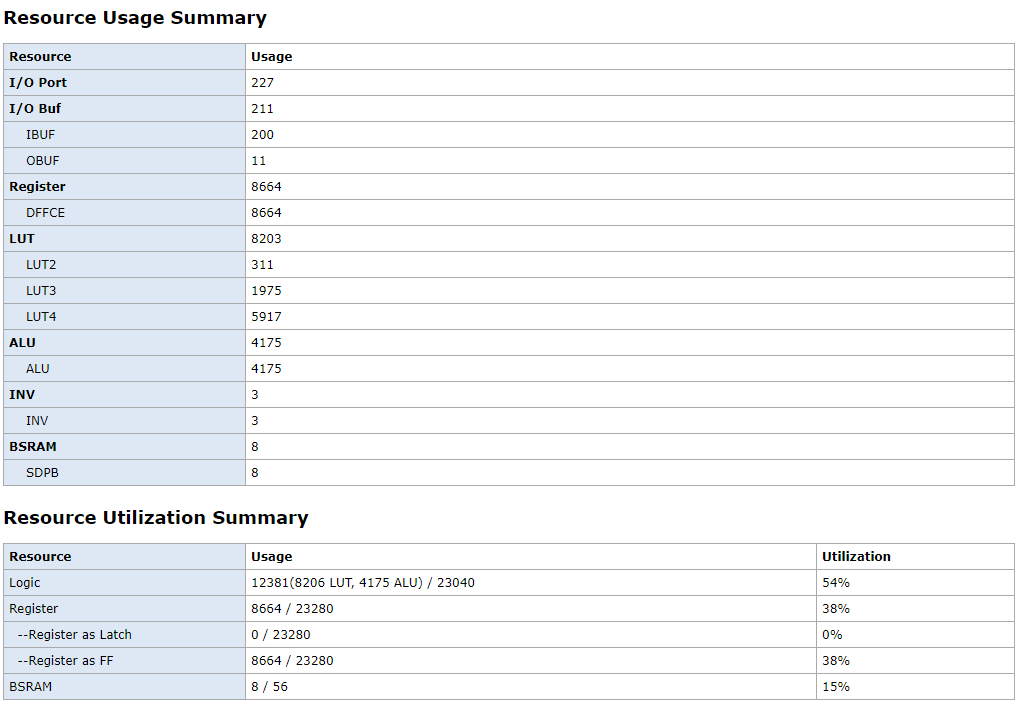
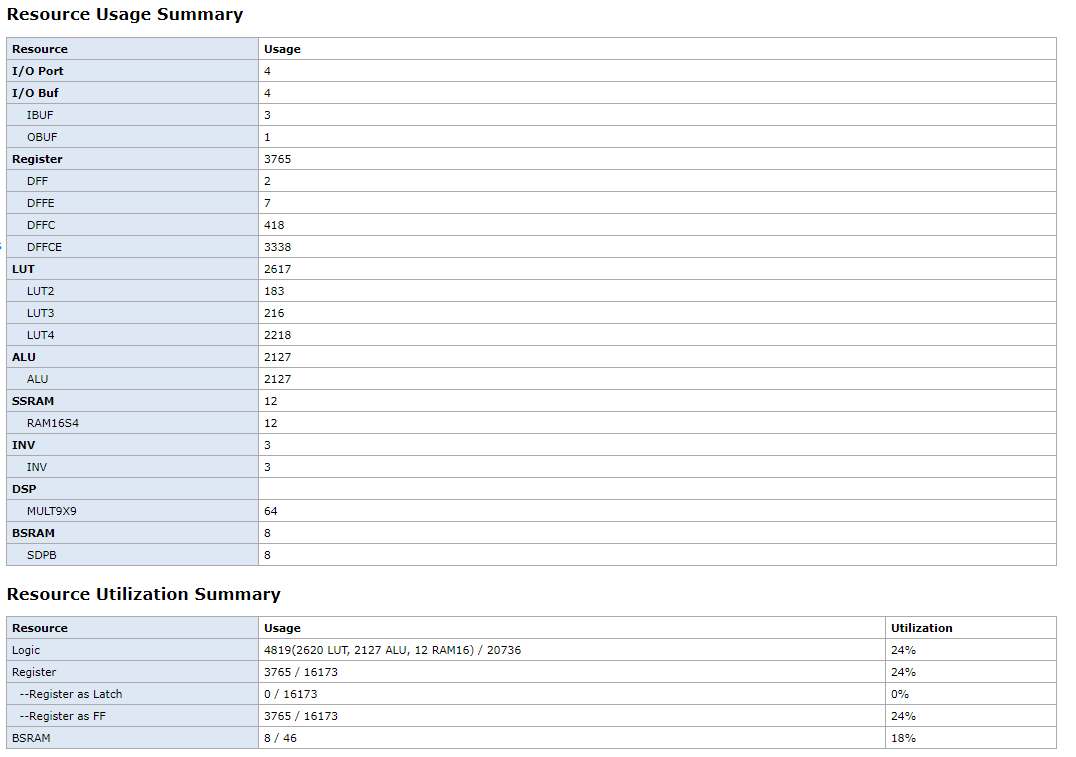
chore: add new synthesis images and initialize RISC-V firmware directory

Changed region(s): [[0.0, 0.0, 0.9971, 0.9958]]

diff --git a/development/AgentGateV_RISCV_Firmware/include/ArithmeticExpr.h b/development/AgentGateV_RISCV_Firmware/include/ArithmeticExpr.h
@@ -1,0 +1,30 @@
+#ifndef ARITHMETICEXPR_H
+#define ARITHMETICEXPR_H
+
+#include "Expression.h"
+
+class NumberExpression : public Expression {
+private:
+    double value;
+public:
+    NumberExpression(double val) : Expression(Type::NUMBER), value(val) {}
+    double getValue() const { return value; }
+};
+
+class VariableExpression : public Expression {
+private:
+    std::string name;
+public:
+    VariableExpression(const std::string& n) : Expression(Type::VARIABLE), name(n) {}
+    std::string getName() const { return name; }
+};
+
+class OperatorExpression : public Expression {
+private:
+    char op;
+public:
+    OperatorExpression(char o) : Expression(Type::OPERATOR), op(o) {}
+    char getOperator() const { return op; }
+};
+
+#endif

diff --git a/development/AgentGateV_RISCV_Firmware/include/Expression.h b/development/AgentGateV_RISCV_Firmware/include/Expression.h
@@ -1,0 +1,35 @@
+#ifndef EXPRESSION_H
+#define EXPRESSION_H
+
+#include <vector>
+#include <string>
+
+class Expression {
+public:
+  enum class Type {
+    NUMBER,
+    VARIABLE,
+    OPERATOR,
+    FUNCTION // combination of multiple `Type`
+  };
+
+protected:
+  Type type;
+  std::vector<Expression *> children;
+
+public:
+  Expression(Type t) : type(t) {}
+
+  Type getType() { return type; }
+
+  void addChild(Expression *child) { children.push_back(child); }
+  const std::vector<Expression *> getChildren() const { return children; }
+
+  virtual ~Expression() {
+    for (auto &child : children) {
+      delete child;
+    }
+  }
+};
+
+#endif

diff --git a/development/AgentGateV_RISCV_Firmware/include/Equation.h b/development/AgentGateV_RISCV_Firmware/include/Equation.h
@@ -1,0 +1,22 @@
+#ifndef EQUATION_H
+#define EQUATION_H
+
+#include "Expression.h"
+
+class Equation{
+private:
+    Expression* LHS, *RHS;
+
+public:
+    Equation(Expression* lhs, Expression* rhs)
+        : LHS(lhs), RHS(rhs) {}
+
+    Expression* getLHS() const {return LHS;}
+    Expression* getRHS() const {return RHS;}
+
+    void setLHS(Expression* lhs) {LHS = lhs;}
+    void setRHS(Expression* rhs) {RHS = rhs;}
+    ~Equation() { delete LHS; delete RHS; }
+};
+
+#endif
